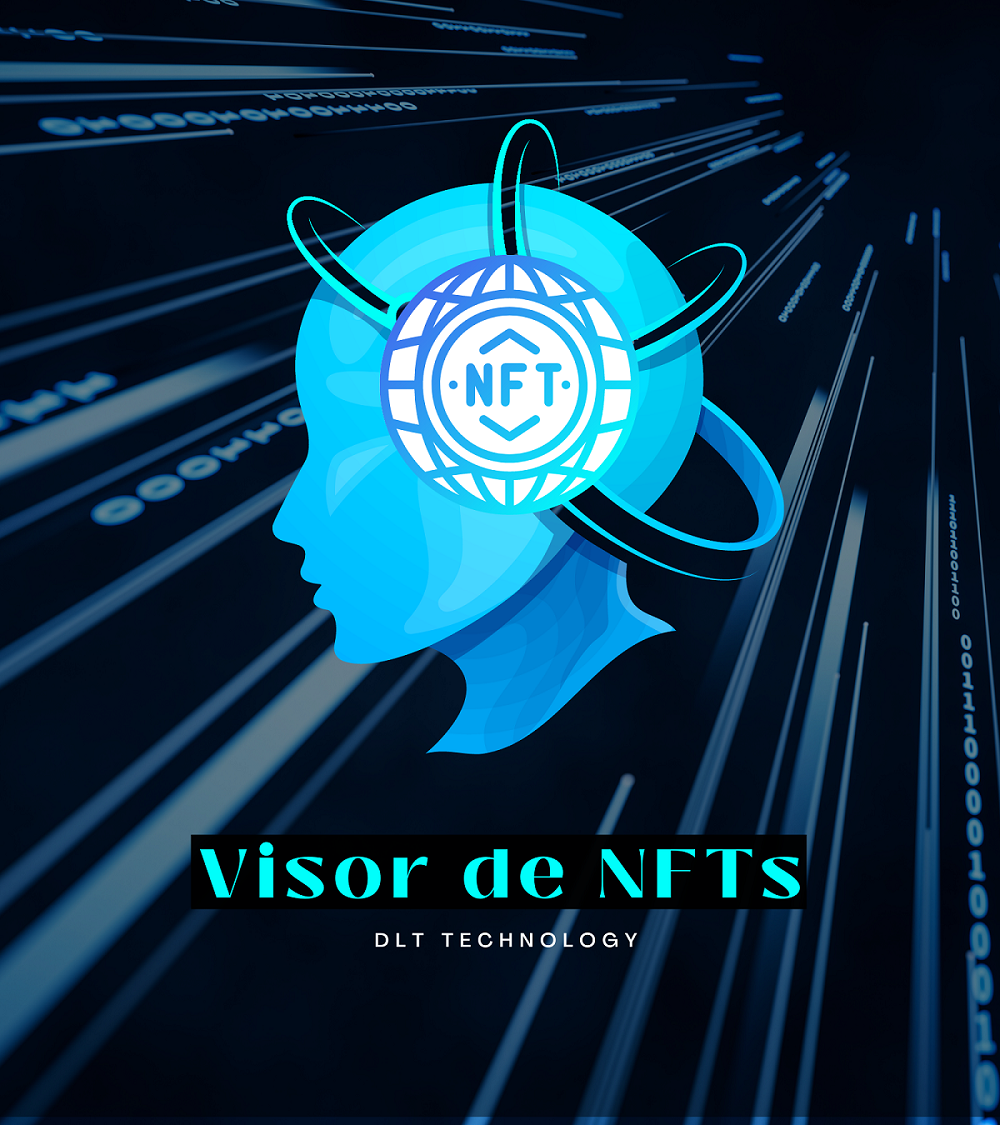
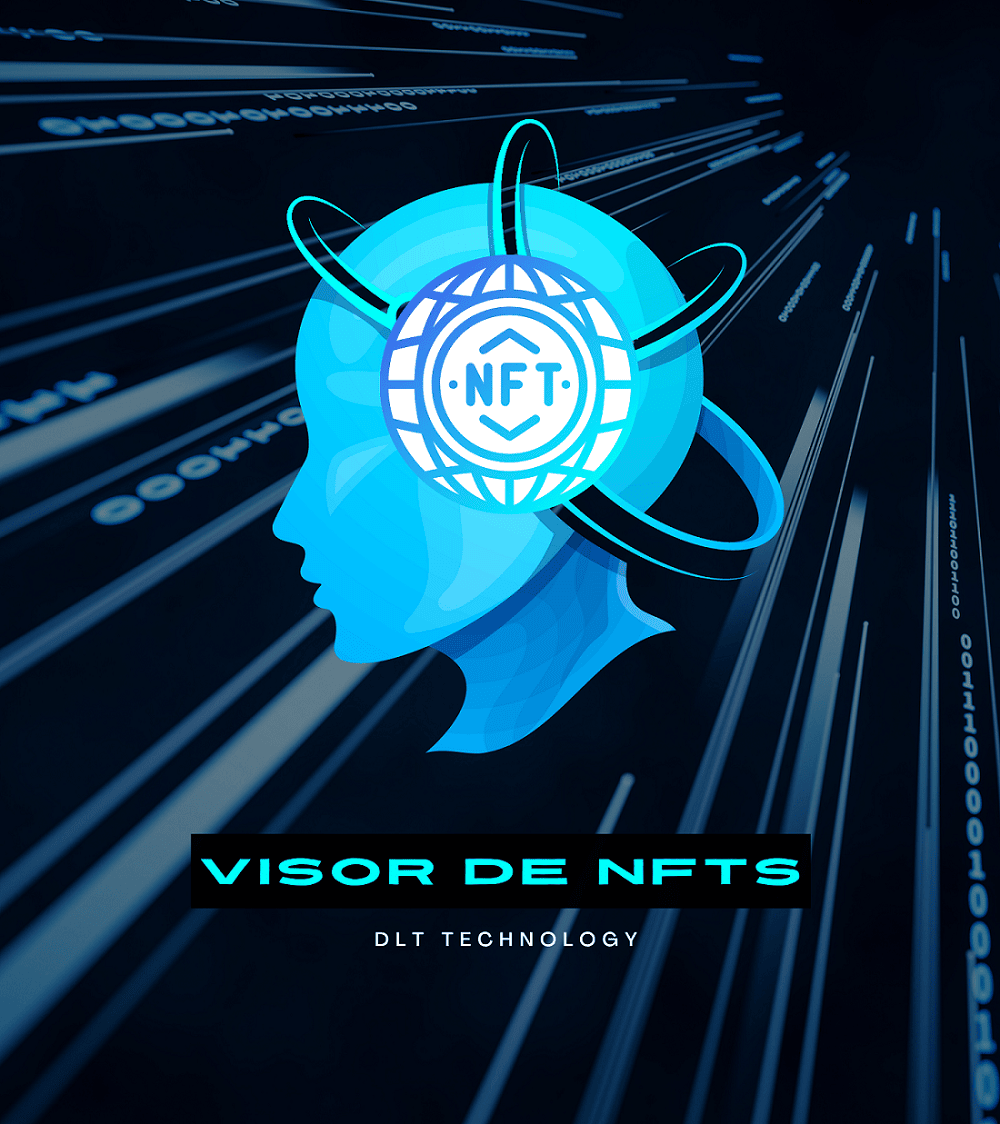
Style: Ajuste de estilo.

diff --git a/src/App.tsx b/src/App.tsx
@@ -28,10 +28,12 @@ function NFTViewer(): JSX.Element {
   const [contractAddress, setContractAddress] = useState<Address | ''>('')
   const [tokenId, setTokenId] = useState('1')
   const [nftData, setNftData] = useState<NFTData | null>(null)
-  const { address, isConnected } = useAccount();
-  const [error, setError] = useState('');
+  // const { address, isConnected } = useAccount();
+  const [imageUrl, setImageUrl] = useState('./visor_de_tarjetas.png')
+  const [, setError] = useState('');
   // const [type, setType] = useState<'1155' | '721'>('1155');
-  const [chainId, setChainId] = useState(0);
+  const [, setChainId] = useState(0);
+  const [isLoading, setIsLoading] = useState(false);
   const isValidAddress = (address: string) => {
     return /^0x[a-fA-F0-9]{40}$/.test(address);
   }
@@ -59,6 +61,13 @@ function NFTViewer(): JSX.Element {
     args: [tokenId],
   });
  
+  const Spinner = () => (
+    <div className="spinner">
+      <div className="bounce1"></div>
+      <div className="bounce2"></div>
+      <div className="bounce3"></div>
+    </div>
+  );
 
   const fetchNFTData = async (type: '1155' | '721') => {
     if (!contractAddress || !tokenId) {
@@ -69,26 +78,35 @@ function NFTViewer(): JSX.Element {
       setError('Invalid contract address');
       return;
     }
-
+    
+    setImageUrl('./visor_de_tarjetas.png');
     setError('');
     setNftData(null);
-    console.log("TYPE", type);
+    setIsLoading(true);
     try {
       let uri: string | undefined;
-
+      
       if(type === "1155"){
+        setImageUrl('./visor_de_tarjetas_no1155.png');
         await refetch1155();
       if (!isError1155) {
         uri = uri1155 as string;
         console.log("URI1155:", uri)
+      }else{
+        console.log("NO ES UN 1155")
+        // setImageUrl('./visor_de_tarjetas_no1155.png');
       }
     }else {
+      setImageUrl('./visor_de_tarjetas_no721.png');
       await refetch721();
       if (!isError721) {
         uri = uri721 as string;
         console.log("URI721:", uri)
+      }else{
+        console.log("NO ES UN 721")
+        // setImageUrl('./visor_de_tarjetas_no721.png');
       }
-      }
+    }
   // const fetchNFTData721 = async (type) => {
   //   if (!contractAddress || !tokenId) {
   //     setError('Contract address and Token ID are required');
@@ -145,6 +163,8 @@ function NFTViewer(): JSX.Element {
     } catch (err) {
       console.error('Error fetching NFT data:', err);
       setError('Error fetching NFT data');
+    } finally {
+      setIsLoading(false); // Finaliza la carga, independientemente del resultado
     }
   };
   useEffect(() => {
@@ -152,7 +172,6 @@ function NFTViewer(): JSX.Element {
       try {
         const chainId = await getChainId(config);
         setChainId(chainId);
-        console.log("XXX",chainId);
       } catch (error) {
         console.error("Error fetching chain ID:", error);
       }
@@ -172,7 +191,8 @@ function NFTViewer(): JSX.Element {
 
   return (
     <div className="container">
-      <h1>VISOR DE TARJETAS</h1>
+      <h1>VISOR DE NFTs</h1>
+      <h3>Visualiza cualquier NFT alojado en IPFS</h3>
     <div className='containerInputs'>
       <input
         id='input1'
@@ -188,29 +208,38 @@ function NFTViewer(): JSX.Element {
         value={tokenId}
         min={0}
         onChange={(e) => setTokenId(e.target.value)}
-      />
+        />
       </div>
       {/* <button onClick={{fetchNFTData721; setType("721")}}>Visualizar tarjeta</button> */}
       {/* <button onClick={handleButtonClick721}>Visualizar tarjeta</button> */}
       {/* <button onClick={handleButtonClick1155}>Visualizar tarjeta 1155</button> */}
       <div className='containerButtons'>
-        <button onClick={() => fetchNFTData("1155")}>Visualizar tarjeta 1155</button>
-        <button onClick={() => fetchNFTData('721')}>Visualizar tarjeta 721</button>
+        <button onClick={() => fetchNFTData("1155")}>Visualizar NFT ERC-1155</button>
+        <button onClick={() => fetchNFTData('721')}>Visualizar NFT ERC-721</button>
       </div>
-      {nftData? (
-        <div className="nft-container">
-          {/* <h2>Address conectada: {address}</h2> */}
-          <img src={nftData.image} alt={nftData.name} />
-          <h2>Nombre de la tarjeta: {nftData.name}</h2>
-          <p>Descripción: {nftData.description}</p>
-          {nftData?.attributes?.map((attr, idx) => (
-                    <div className="attributes" key={idx}>
-                        <strong>{attr.trait_type}:</strong> {attr.value}
-                    </div>
-                ))}
+      
+      {isLoading ? (
+        <div className="loading-container">
+          <img id='portada' src={imageUrl} alt='Imagen de un visualizar de tarjetas digitales y nfts'/>
+          <div className="spinner-overlay">
+            <Spinner />
+          </div>
         </div>
-      ) : <img id='portada' src='./visor_de_tarjetas.png' alt='Imagen de un visualizar de tarjetas digitales y nfts'/>}
-    </div>
+      ) : nftData ? (
+        <div className="nft-container">
+          <img src={nftData?.image} alt={nftData?.name} />
+          <h2>Nombre: {nftData?.name}</h2>
+          <p>Descripción: {nftData?.description}</p>
+          {nftData?.attributes?.map((attr, idx) => (
+            <div className="attributes" key={idx}>
+              <strong>{attr.trait_type}:</strong> {attr.value}
+            </div>
+          ))}
+        </div>
+      ) : (
+        <img id='portada' src={imageUrl} alt='Imagen de un visualizar de tarjetas digitales y nfts'/>
+      )}
+      </div>     
   )
 }
 

diff --git a/src/App.css b/src/App.css
@@ -41,6 +41,12 @@ body {
   font-size: 2.2em;
   margin: 25px;
 }
+.container h3 {
+  text-align: center;
+  font-size: 1.6em;
+  margin: auto;
+  margin-bottom: 20px;
+}
 
 .container input {
   text-align: right;
@@ -134,4 +140,53 @@ button:hover {
   /* color: #ffffff; */
   /* font-size: 16px; */
   box-shadow: 0 2px 5px rgba(0, 0, 0, 0.5);
+}
+
+.loading-container {
+  position: relative;
+}
+
+.spinner-overlay {
+  position: absolute;
+  top: 0;
+  left: 0;
+  right: 0;
+  bottom: 0;
+  background-color: rgba(255, 255, 255, 0.7);
+  display: flex;
+  justify-content: center;
+  align-items: center;
+}
+
+.spinner {
+  width: 70px;
+  text-align: center;
+}
+
+.spinner > div {
+  width: 18px;
+  height: 18px;
+  background-color: #333;
+  border-radius: 100%;
+  display: inline-block;
+  animation: sk-bouncedelay 1.4s infinite ease-in-out both;
+}
+
+.spinner .bounce1 {
+  animation-delay: -0.32s;
+}
+
+.spinner .bounce2 {
+  animation-delay: -0.16s;
+}
+
+@keyframes sk-bouncedelay {
+  0%,
+  80%,
+  100% {
+    transform: scale(0);
+  }
+  40% {
+    transform: scale(1);
+  }
 }

diff --git a/index.html b/index.html
@@ -2,7 +2,7 @@
 <html lang="en">
   <head>
     <meta charset="UTF-8" />
-    <link rel="icon" type="image/svg+xml" href="/vite.svg" />
+    <link rel="icon" type="image/svg+xml" href="/visor_de_tarjetas.ico" />
     <meta name="viewport" content="width=device-width, initial-scale=1.0" />
     <link rel="preconnect" href="https://fonts.googleapis.com">
     <link rel="preconnect" href="https://fonts.gstatic.com" crossorigin>

diff --git a/src/main.tsx b/src/main.tsx
@@ -17,7 +17,7 @@ import '@rainbow-me/rainbowkit/styles.css'
 const queryClient = new QueryClient()
 
 export const config = getDefaultConfig({
-  appName: 'EducatETH DAPP',
+  appName: 'VISOR DE NFTs',
   projectId: import.meta.env.VITE_PROJECT_ID,
   chains: [mainnet, sepolia, arbitrum, arbitrumNova, arbitrumSepolia, polygon, polygonAmoy, optimism, optimismSepolia],
 })
